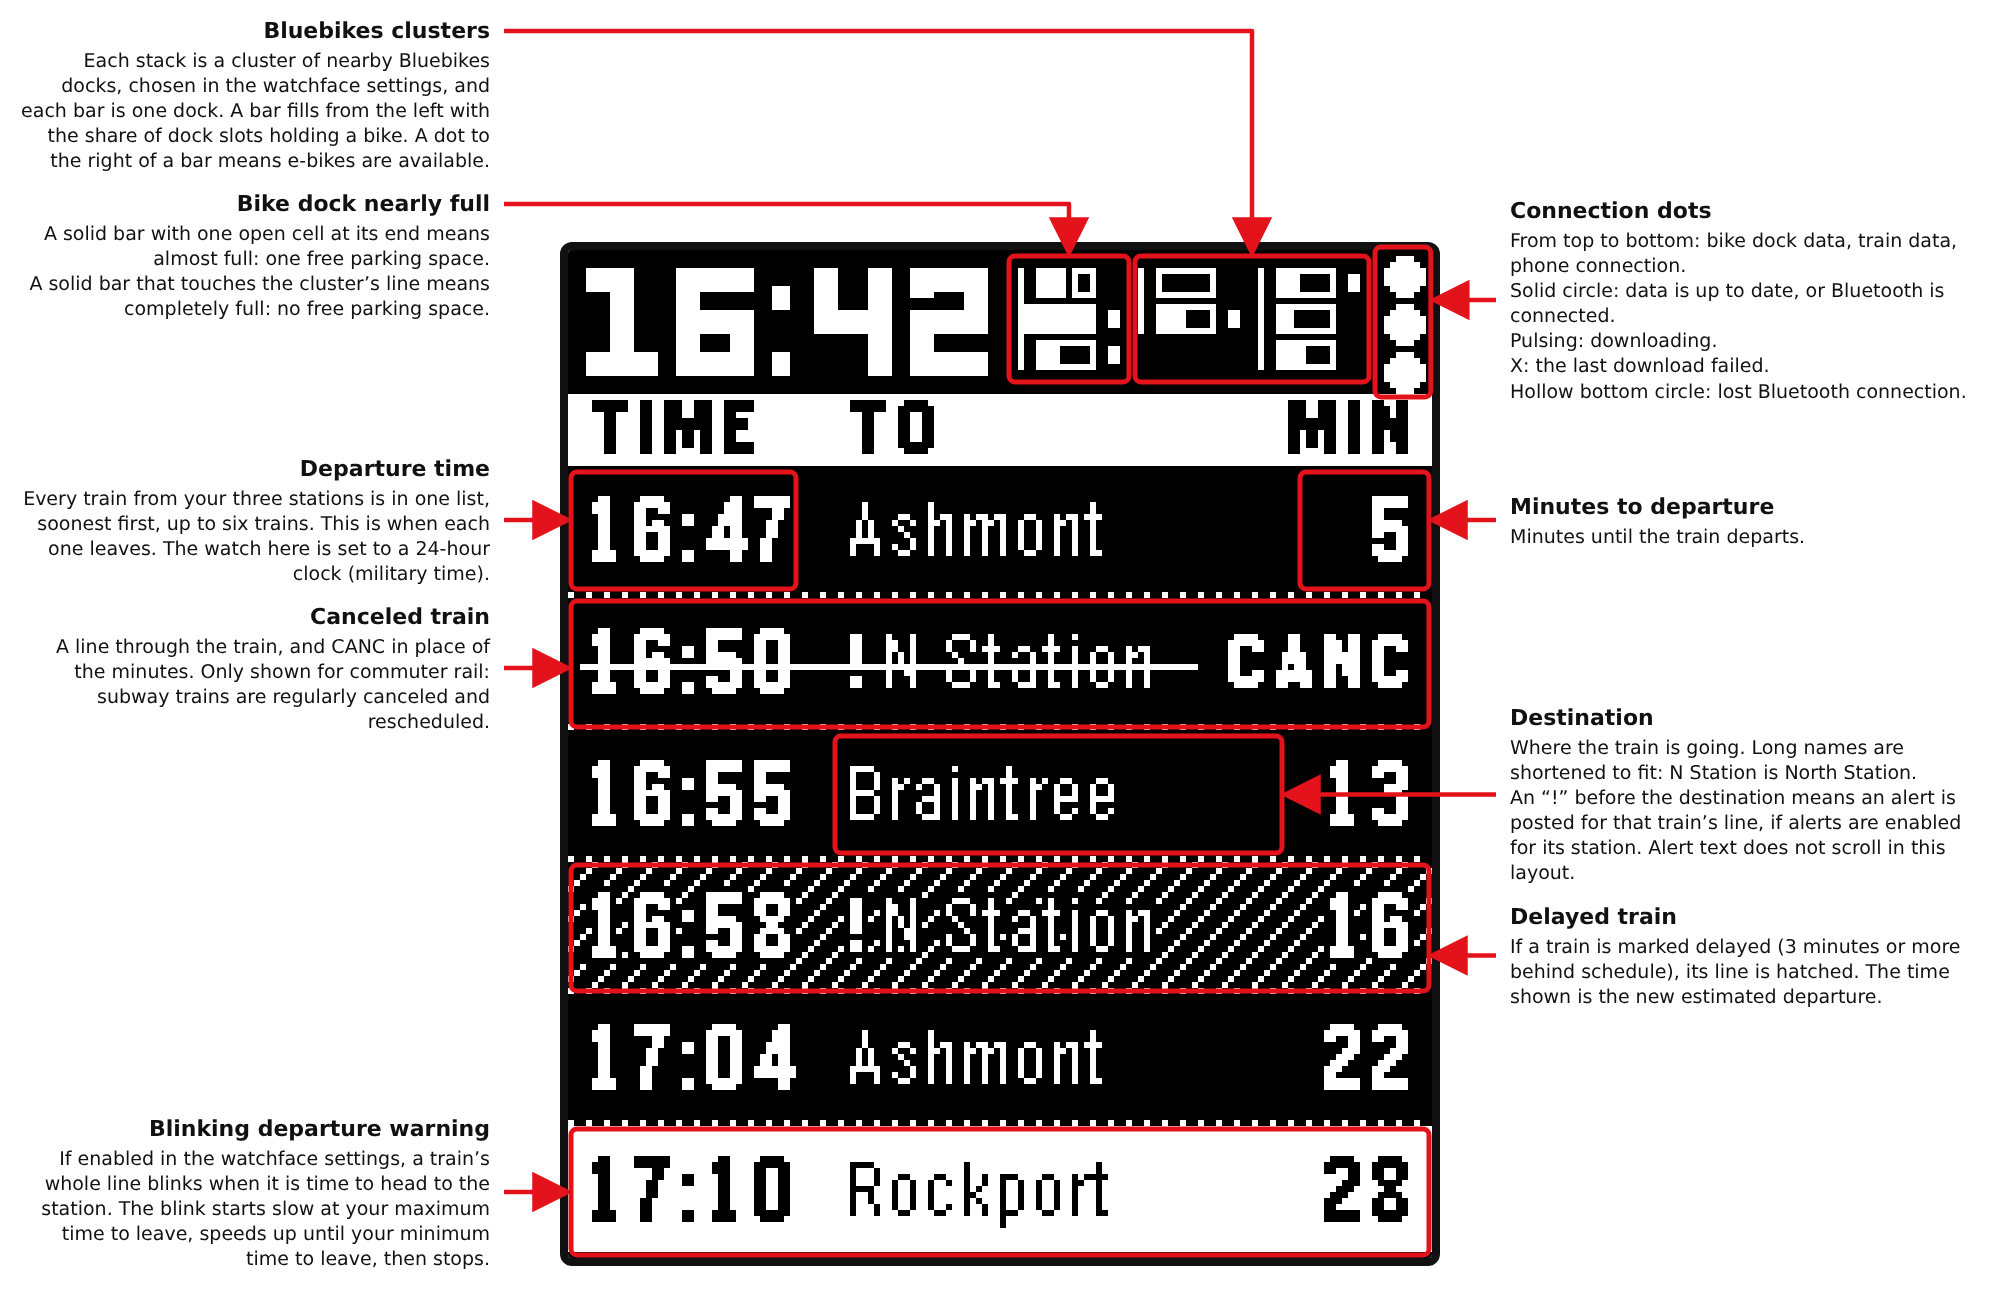
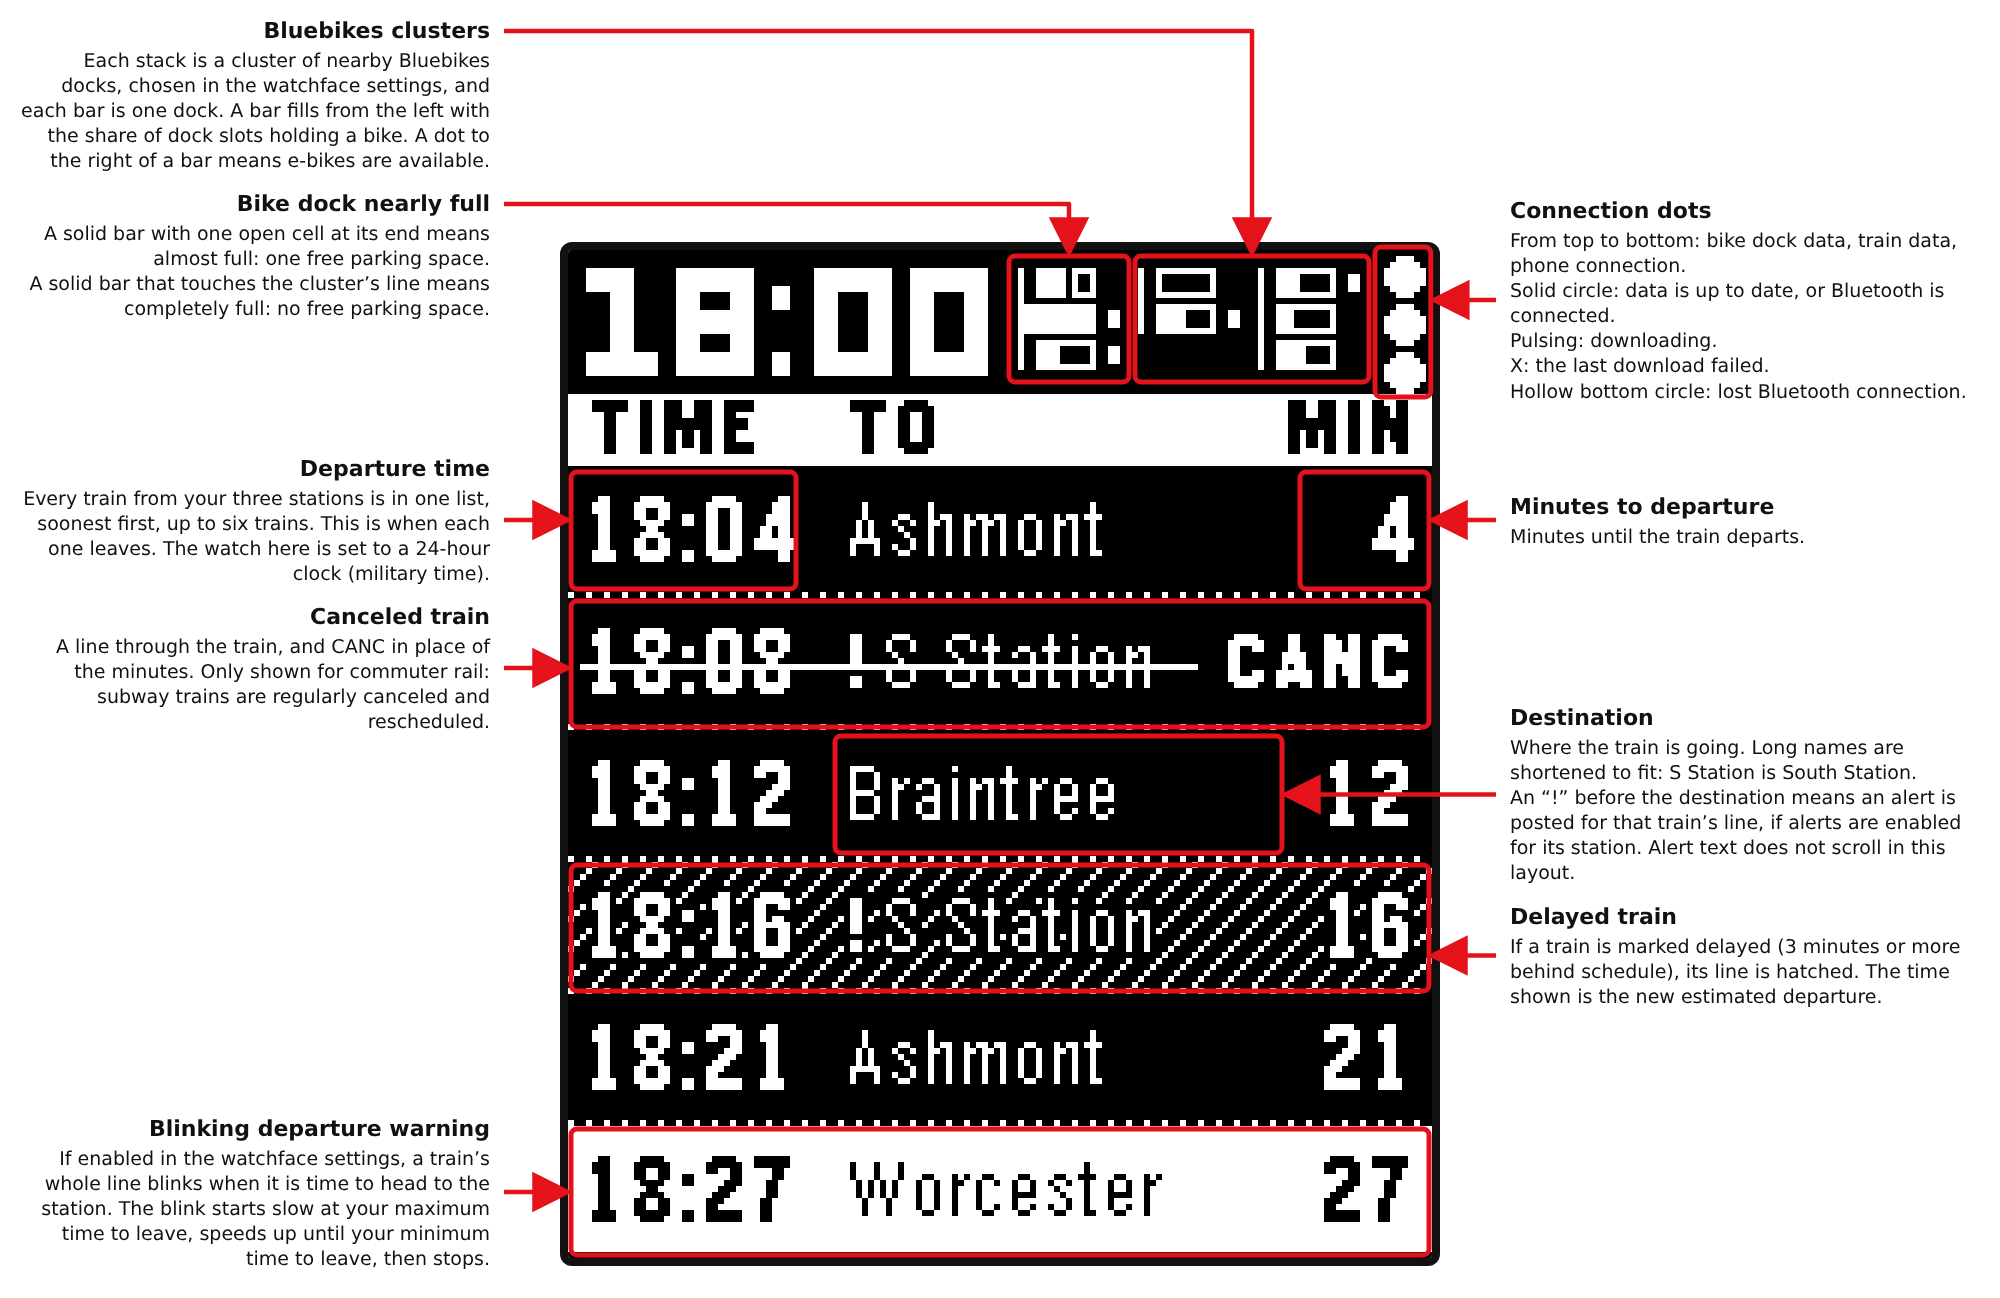
Version 0.3.15: no default stations
Stations start unset on the watch, the phone and the settings page, and
the watch says "Set up on phone" until one is chosen. The README and
the guides use example stations instead of the old defaults.

Claude-Session: https://claude.ai/code/session_018kUttcRWv8pxFU9anVHVt8

diff --git a/src/pkjs/index.js b/src/pkjs/index.js
@@ -19,6 +19,8 @@ var NUM_ROWS = config.ROWS.length;
 // Row display modes; must match RowMode in src/c/watchface.c.
 var MODE_CLOCK = 0;
 var MODE_MINUTES = 1;
+// A station nobody has chosen yet.
+var MODE_UNSET = 2;
 // Per-departure status letters; must match FLAG_* in src/c/watchface.c.
 var FLAG_NONE = ' ';
 var FLAG_CANCELLED = 'X';
@@ -221,9 +223,13 @@ function rowConfig(row, saved) {
   var alerts = saved['ALERT_ON[' + row + ']'];
   var dir = pick('DIR', defaults.direction.value);
   var colon = dir.indexOf(':');
+  var route = pick('ROUTE', defaults.route.value);
+  var stop = pick('STOP', defaults.stop.value);
   return {
-    route: pick('ROUTE', defaults.route.value),
-    stop: pick('STOP', defaults.stop.value),
+    // False until a line, station and direction have all been chosen.
+    set: route !== '' && stop !== '' && dir !== '',
+    route: route,
+    stop: stop,
     direction: colon < 0 ? dir : dir.substring(0, colon),
     destination: colon < 0 ? null : dir.substring(colon + 1),
     alerts: alerts === true || alerts === 1 || alerts === '1' || alerts === 'true'
@@ -613,7 +619,7 @@ function refresh() {
   var pending = NUM_ROWS;
   for (var i = 0; i < NUM_ROWS; i++) {
     rows.push(rowConfig(i, saved));
-    if (rows[i].alerts) pending++;
+    if (rows[i].alerts && rows[i].set) pending++;
   }
   var bikeIds = bikeStations(saved);
   if (hasBikes(bikeIds)) pending++;
@@ -648,6 +654,12 @@ function refresh() {
   for (var r = 0; r < NUM_ROWS; r++) {
     (function(row) {
       var cfg = rows[row];
+      if (!cfg.set) {
+        dict[keys.ALERT + row] = '';
+        putRow(dict, row, { mode: MODE_UNSET, trains: [] });
+        done();
+        return;
+      }
       if (cfg.alerts) {
         fetchAlert(cfg, function(err, text) {
           if (fetchId !== s_fetch_id) return;

diff --git a/src/pkjs/config.js b/src/pkjs/config.js
@@ -1,29 +1,16 @@
-// Defaults for each row; index order must match the row order in src/c/watchface.c.
-// The option lists built here are only fallbacks so saved values still show if the
-// page is offline. The settings page loads the full MBTA lists live (config-page.js).
-var ROWS = [
-  {
-    route: { value: 'CR-Newburyport', label: 'Newburyport/Rockport Line' },
-    stop: { value: 'place-north', label: 'North Station' },
-    direction: { value: '0', label: 'Outbound → Newburyport or Rockport' },
-    label: 'NORTH STA > OUT',
-    warn: { enabled: true, start: 30, end: 25 }
-  },
-  {
-    route: { value: 'CR-Newburyport', label: 'Newburyport/Rockport Line' },
-    stop: { value: 'place-ER-0168', label: 'Salem' },
-    direction: { value: '1', label: 'Inbound → North Station' },
-    label: 'SALEM > IN',
-    warn: { enabled: false, start: 15, end: 10 }
-  },
-  {
-    route: { value: 'Red', label: 'Red Line' },
-    stop: { value: 'place-cntsq', label: 'Central' },
-    direction: { value: '0', label: 'South → Ashmont/Braintree' },
-    label: 'CENTRAL > SOUTH',
-    warn: { enabled: false, start: 10, end: 5 }
-  }
-];
+// Every station starts unset: the user picks their own in the settings page.
+// Index order must match the section order in src/c/watchface.c. The option
+// lists built here are only fallbacks so saved values still show if the page
+// is offline; the settings page loads the full MBTA lists live (config-page.js).
+var NONE = { value: '', label: 'None' };
+var UNSET_ROW = {
+  route: NONE,
+  stop: NONE,
+  direction: NONE,
+  label: '',
+  warn: { enabled: false, start: 10, end: 5 }
+};
+var ROWS = [UNSET_ROW, UNSET_ROW, UNSET_ROW];
 
 // Adds the saved value as an option when it isn't one of the defaults.
 function selectOptions(fallback, saved) {

diff --git a/docs/watch-guide.html b/docs/watch-guide.html
@@ -46,7 +46,7 @@ board:{img:'screen-guide-board.png',y0:250,items:[
  {side:'l',title:'Blinking departure warning',body:'If enabled in the watchface settings, a train’s whole line blinks when it is time to head to the station. The blink starts slow at your maximum time to leave, speeds up until your minimum time to leave, then stops.',box:[0.5,146.5,143.5,167.5]},
  {side:'r',title:'Connection dots',body:'From top to bottom: bike dock data, train data, phone connection.<br>Solid circle: data is up to date, or Bluetooth is connected.<br>Pulsing: downloading.<br>X: the last download failed.<br>Hollow bottom circle: lost Bluetooth connection.',box:[134.5,-0.5,143.8,24.5],ty:300},
  {side:'r',title:'Minutes to departure',body:'Minutes until the train departs.',box:[122,37,143.5,56.5],ty:520},
- {side:'r',title:'Destination',body:'Where the train is going. Long names are shortened to fit: N Station is North Station.<br>An “!” before the destination means an alert is posted for that train’s line, if alerts are enabled for its station. Alert text does not scroll in this layout.',box:[44.5,81,119,100.5]},
+ {side:'r',title:'Destination',body:'Where the train is going. Long names are shortened to fit: S Station is South Station.<br>An “!” before the destination means an alert is posted for that train’s line, if alerts are enabled for its station. Alert text does not scroll in this layout.',box:[44.5,81,119,100.5]},
  {side:'r',title:'Delayed train',body:'If a train is marked delayed (3 minutes or more behind schedule), its line is hatched. The time shown is the new estimated departure.',box:[0.5,102.5,143.5,123.5],ty:940}
 ]},
 dial:{img:'screen-guide-dial.png',y0:150,items:[

diff --git a/src/pkjs/config-page.js b/src/pkjs/config-page.js
@@ -68,6 +68,8 @@ module.exports = function() {
     xhr.send();
   }
 
+  var NONE_OPTION = { value: '', label: 'None' };
+
   function rowItem(key, row) {
     return clayConfig.getItemByMessageKey(key + '[' + row + ']');
   }
@@ -264,6 +266,13 @@ module.exports = function() {
   // Refreshes a row's direction and station lists for its current line.
   function onRouteChanged(row, byUser) {
     var routeId = rowItem('ROUTE', row).get();
+    // A station left at None has nothing to choose and no header.
+    if (routeId === '') {
+      setOptions(rowItem('STOP', row), [NONE_OPTION], '');
+      setOptions(rowItem('DIR', row), [NONE_OPTION], '');
+      if (byUser) rowItem('LABEL', row).set('');
+      return;
+    }
     var route = routes[routeId];
     if (!route) return;
     setOptions(rowItem('DIR', row), directionOptions(routeId, route), rowItem('DIR', row).get());
@@ -406,6 +415,7 @@ module.exports = function() {
         routes[GREEN_ID] = mergeRoutes(greenIds, 'Green Line');
       }
       var groups = [
+        NONE_OPTION,
         { label: 'Subway', options: subway },
         { label: 'Commuter Rail', options: commuter }
       ];

diff --git a/src/c/watchface.c b/src/c/watchface.c
@@ -132,7 +132,8 @@ enum { LAYOUT_CLASSIC, LAYOUT_BOARD, LAYOUT_DIAL, NUM_LAYOUTS };
 #define DIAL_HOUR_S 3600
 
 // How a row shows departures; must match MODE_* in src/pkjs/index.js.
-enum { MODE_CLOCK, MODE_MINUTES };
+// MODE_UNSET is a station nobody has chosen yet.
+enum { MODE_CLOCK, MODE_MINUTES, MODE_UNSET };
 
 // Per-departure status letters; must match FLAG_* in src/pkjs/index.js.
 #define FLAG_NONE ' '
@@ -552,7 +553,8 @@ static const RowFont *prv_pick_row_font(Cell cells[][MAX_DEPARTURES], const int 
 
 // Fills the columns left empty once trains run out with the longest message
 // that fits, in the row font or the largest smaller one.
-static void prv_draw_no_more(GContext *ctx, GRect space, const RowFont *rf, bool any_trains) {
+static void prv_draw_no_more(GContext *ctx, GRect space, const RowFont *rf, bool any_trains,
+                             bool unset) {
   static const char *const s_some[] = { "No more trains", "No more", "-" };
   static const char *const s_none[] = { "No trains" };
   const char *const *texts = any_trains ? s_some : s_none;
@@ -561,6 +563,11 @@ static void prv_draw_no_more(GContext *ctx, GRect space, const RowFont *rf, bool
     static const char *const s_loading[] = { "Loading..." };
     texts = s_loading;
     num_texts = 1;
+  } else if (unset) {
+    // No station has been chosen for this row yet.
+    static const char *const s_unset[] = { "Set up on phone", "Not set", "-" };
+    texts = s_unset;
+    num_texts = (int)ARRAY_LENGTH(s_unset);
   }
   const char *text = texts[num_texts - 1];
   const RowFont *font = &s_row_fonts[NUM_ROW_FONTS - 1];
@@ -669,7 +676,8 @@ static void prv_draw_row(GContext *ctx, int row_y, int width, int section, const
   }
   if (n < prv_departures()) {
     int x = prv_column_x(n, width);
-    prv_draw_no_more(ctx, GRect(x, row_y, width - x, spec->row_h), rf, n > 0);
+    prv_draw_no_more(ctx, GRect(x, row_y, width - x, spec->row_h), rf, n > 0,
+                     s_data.mode[section] == MODE_UNSET);
   }
 }
 
@@ -1189,7 +1197,12 @@ static void prv_draw_board(GContext *ctx, GRect bounds, int64_t now_ms) {
   int rows_top = BOARD_TOP + BOARD_BAR_H;
   if (s_board_count == 0) {
     graphics_context_set_text_color(ctx, GColorWhite);
-    prv_draw_text(ctx, s_has_data ? "No trains" : "Loading...", s_board_font,
+    bool unset = true;
+    for (int section = 0; section < NUM_SECTIONS; section++) {
+      unset &= s_data.mode[section] == MODE_UNSET;
+    }
+    prv_draw_text(ctx, !s_has_data ? "Loading..." : unset ? "Set up on phone" : "No trains",
+                  s_board_font,
                   GRect(0, rows_top + 40, width, 24), GTextAlignmentCenter);
     return;
   }
@@ -1450,11 +1463,11 @@ static void prv_blink_timer_cb(void *context) {
 
 static void prv_default_settings(void) {
   s_settings = (Settings) {
-    .warn_on = { true, false, false },
-    .warn_start_min = { 30, 15, 10 },
-    .warn_end_min = { 25, 10, 5 },
+    .warn_on = { false, false, false },
+    .warn_start_min = { 10, 10, 10 },
+    .warn_end_min = { 5, 5, 5 },
     .departures = DEFAULT_DEPARTURES,
-    .labels = { "NORTH STA > OUT", "SALEM > IN", "CENTRAL > SOUTH" },
+    .labels = { "", "", "" },
   };
 }
 
@@ -1697,7 +1710,8 @@ static void prv_inbox_received(DictionaryIterator *iter, void *context) {
       alert_changed = true;
     }
     if ((t = dict_find(iter, MESSAGE_KEY_MODE + section))) {
-      s_data.mode[section] = prv_tuple_int(t) == MODE_MINUTES ? MODE_MINUTES : MODE_CLOCK;
+      int32_t mode = prv_tuple_int(t);
+      s_data.mode[section] = mode == MODE_MINUTES || mode == MODE_UNSET ? (uint8_t)mode : MODE_CLOCK;
       changed = true;
     }
   }

diff --git a/README.md b/README.md
@@ -4,16 +4,17 @@
 
 A Pebble watchface (diorite / flint) that shows the time plus live MBTA
 departures, fetched from the [MBTA v3 API](https://api-v3.mbta.com) by
-PebbleKit JS (`src/pkjs/index.js`). It shows three rows, each one any
-subway, light rail or commuter rail line + station + direction. The defaults:
+PebbleKit JS (`src/pkjs/index.js`). It watches up to three stations, each one
+any subway, light rail or commuter rail line + station + direction.
 
-- **North Station → Outbound** (Newburyport/Rockport Line)
-- **Salem → Inbound** to North Station
-- **Central → Southbound** Red Line
+No stations are set when the watchface is first installed. The watch shows
+"Set up on phone" until you choose them in the watchface settings in the
+Pebble app.
 
 ![Annotated guide to the watch screen](docs/watch-guide.png)
 
-The screen above uses demo data so that every marker appears at once.
+The screen above uses demo data and example stations so that every marker
+appears at once.
 
 Commuter rail rows show departure times. Subway rows show minutes until each
 train, tagged with the first letter of its destination when trains in that
@@ -103,12 +104,13 @@ in `src/pkjs/config.js`) from the Pebble app, or in the emulator with
 - **Trains shown per station** (1–5, default 3), for the line by line layout.
   Each station's trains stay on one line; with 4 or 5 the text shrinks to fit
   and the clock gets the freed-up space.
-- **Line → Station → Direction** for each of the three stations. The page loads
+- **Line → Station → Direction** for each of the three stations. Each starts
+  at None; leave a station at None if you want fewer than three. The page loads
   these lists live from the MBTA API (`src/pkjs/config-page.js`): picking a
   line fills in its stations and directions. If the MBTA can't be reached, the
   saved choices are still shown.
 - **Timetable header** for each station: the name shown above its trains. It
-  is filled in (e.g. `SALEM > IN`) when you pick a station or direction, and
+  is filled in (e.g. `PARK ST > SOUTH`) when you pick a station or direction, and
   you can edit it. If it doesn't fit next to the countdown, the watch shortens
   the station part.
 - **Show service alerts** for each station (off by default). When the MBTA has
@@ -120,8 +122,7 @@ in `src/pkjs/config.js`) from the Pebble app, or in the emulator with
 - **Blinking departure warning** for each station: a train blinks when it is
   time to head to the station. The blink starts slow at your **maximum time to
   leave**, speeds up until your **minimum time to leave**, then stops.
-  Defaults: station 1 on, 30 → 25 minutes; station 2, 15 → 10 and station 3,
-  10 → 5, both off.
+  It is off by default; when switched on it starts at 10 → 5 minutes.
 - **Bluebikes docks**: nine slots in three clusters, each with a search box.
   Type part of a dock's name and pick it from the list beneath.
 
